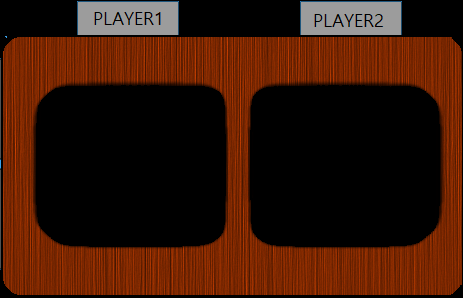
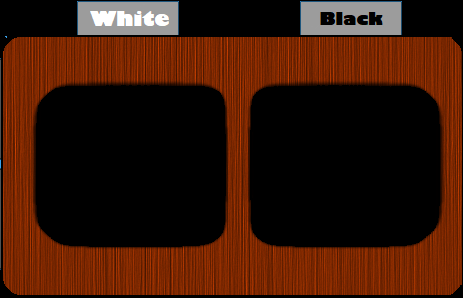
change png & game ended

Changed region(s): [[0.6652, 0.0301, 0.8467, 0.0903], [0.1814, 0.0301, 0.3629, 0.0903]]

diff --git a/SimpleChess_GamePYTHON/chess game simple/gui.py b/SimpleChess_GamePYTHON/chess game simple/gui.py
@@ -187,6 +187,14 @@ def play_as(game, color):
         while run:
             CLOCK.tick(CLOCK_TICK)
             print_board(game.board, color)
+
+            if time_a <= 0:
+                set_title(SCREEN_TITLE + ' - ' + chessgame.get_outcome(game))
+                ongoing = False
+
+            if time_b <= 0:
+                set_title(SCREEN_TITLE + ' - ' + chessgame.get_outcome(game))
+                ongoing = False
             
             if chessgame.game_ended(game):
                 set_title(SCREEN_TITLE + ' - ' + chessgame.get_outcome(game))
@@ -194,6 +202,14 @@ def play_as(game, color):
             
             if ongoing and game.to_move == chessgame.opposing_color(color):
                 game = make_AI_move(game, color)
+
+            if time_a <= 0:
+                set_title(SCREEN_TITLE + ' - ' + chessgame.get_outcome(game))
+                ongoing = False
+
+            if time_b <= 0:
+                set_title(SCREEN_TITLE + ' - ' + chessgame.get_outcome(game))
+                ongoing = False
             
             if chessgame.game_ended(game):
                 set_title(SCREEN_TITLE + ' - ' + chessgame.get_outcome(game))
